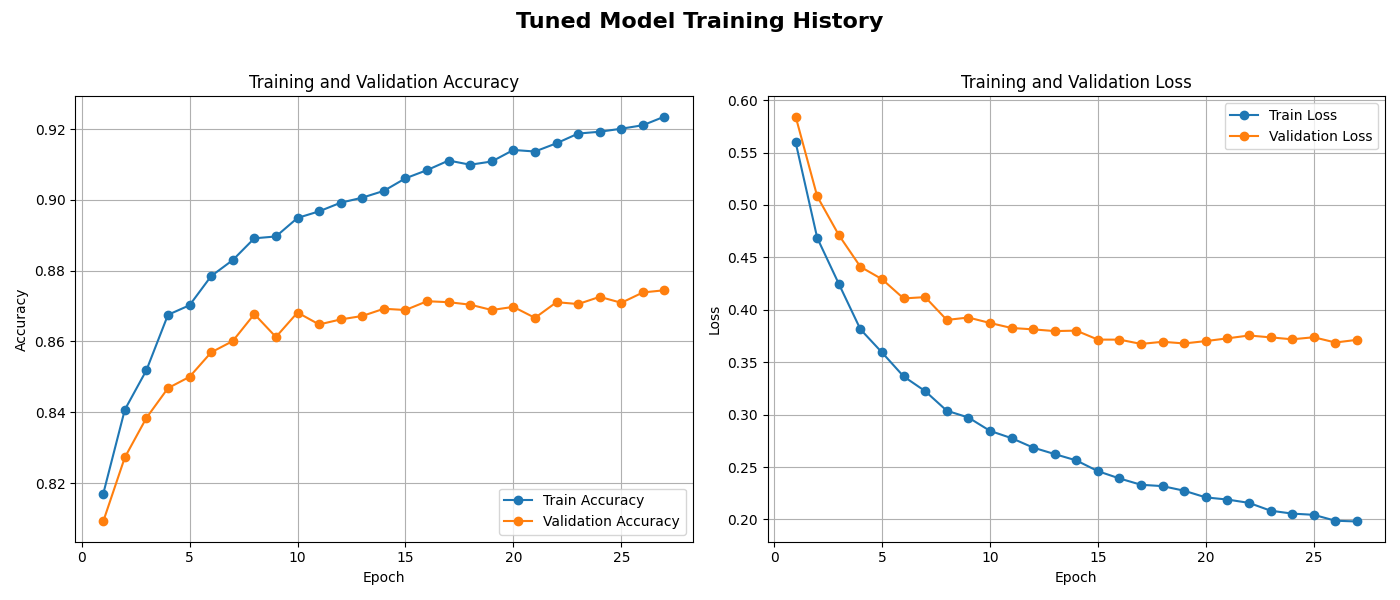
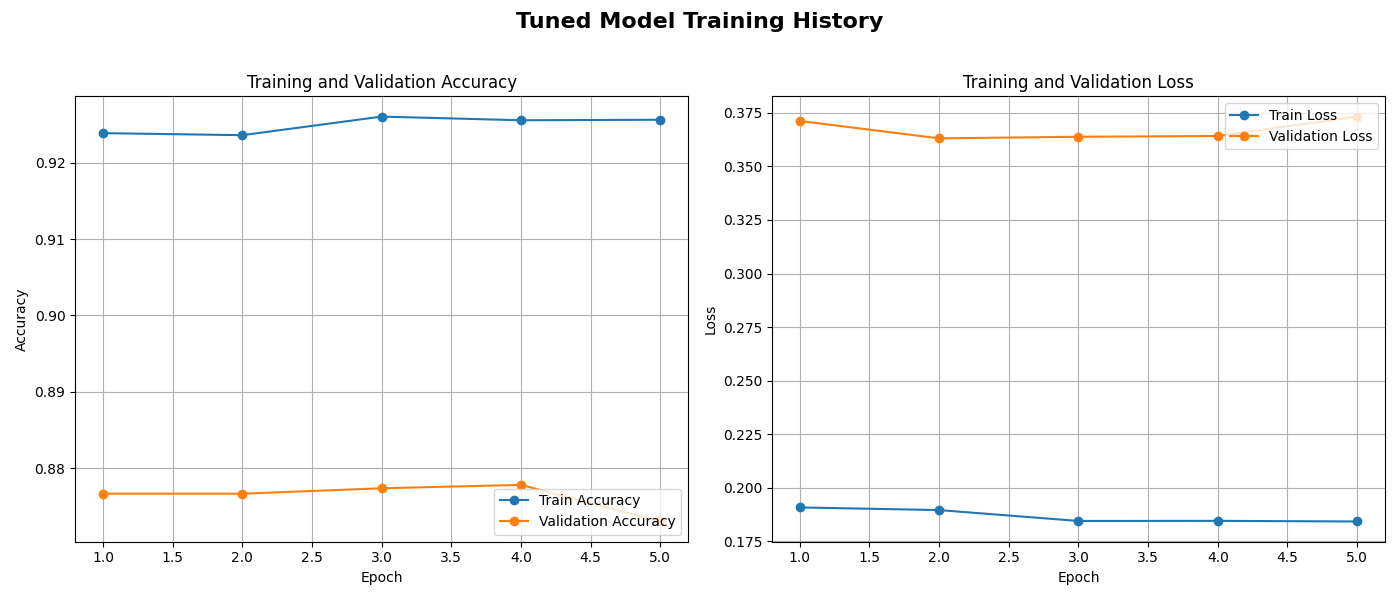
modify

diff --git a/tuning/tuning.py b/tuning/tuning.py
@@ -1,6 +1,8 @@
 import argparse
 import numpy as np
 import optuna
+import os
+import json
 from optuna.exceptions import TrialPruned
 from src.model import MLP
 from src.load_data import load_processed_data
@@ -37,6 +39,9 @@ def train(mlp, X_train, Y_train, X_val, Y_val, epochs, batch_size, patience, lr,
         if val_loss < best_val_loss:
             best_val_loss = val_loss
             val_acc_at_best_loss = val_acc
+            best_weights = {k: v.copy() for k, v in mlp.parameters.items()}
+            if mlp.use_batchnorm:
+                best_bn = {k: v.copy() for k, v in mlp.bn_params.items()}
             wait = 0
         else:
             wait += 1
@@ -48,34 +53,40 @@ def train(mlp, X_train, Y_train, X_val, Y_val, epochs, batch_size, patience, lr,
         if trial.should_prune():
             raise TrialPruned()
         
-    return val_acc_at_best_loss
+    return val_acc_at_best_loss, best_weights, best_bn
 
 def objective(trial):
     lr = trial.suggest_float('learning_rate', 1e-4, 1e-2, log=True)
-    lambd = trial.suggest_float('lambda', 1e-5, 1e-2, log=True)
-    keep_prob = trial.suggest_float('keep_prob', 0.5, 0.9)
-    n_hidden_layers = trial.suggest_int('n_hidden_layers', 1, 3)
+    lambd = trial.suggest_float('lambda', 1e-4, 1e-1, log=True)
+    keep_prob = trial.suggest_float('keep_prob', 0.3, 0.7, step=0.1)
+    n_hidden_layers = trial.suggest_int('n_hidden_layers', 1, 2)
 
     layer_dims = [784]
     for i in range(n_hidden_layers):
-        n_neurons = trial.suggest_int(f'n_units_layer_{i}', 128, 512, step=128)
+        n_neurons = trial.suggest_int(f'n_units_layer_{i}', 128, 1024, step=128)
         layer_dims.append(n_neurons)
     layer_dims.append(47)
-
-    mlp = MLP(layer_dims=layer_dims, init='he', lr=lr, lambd=lambd, 
-              keep_prob=keep_prob, use_batchnorm=True, optimizer='adam')
     
-    EPOCHS = 30
+    EPOCHS = 50
     BATCH_SIZE = 128
     PATIENCE = 5
     DECAY_RATE = 0.98
+    OPTIMIZER = 'adam'
+
+    mlp = MLP(layer_dims=layer_dims, init='he', lr=lr, lambd=lambd, 
+              keep_prob=keep_prob, use_batchnorm=True, optimizer=OPTIMIZER)
 
     try:
-        best_val_acc = train(mlp, X_train, Y_train, X_val, Y_val, 
+        best_val_acc, best_weights, best_bn = train(mlp, X_train, Y_train, X_val, Y_val, 
                              epochs=EPOCHS, batch_size=BATCH_SIZE, patience=PATIENCE, 
                              lr=lr, decay_rate=DECAY_RATE, trial=trial)
+        if best_weights:
+            best_weights = {k: v.tolist() for k, v in best_weights.items()}
+            trial.set_user_attr("best_weights", best_weights)
+        if best_bn:
+            best_bn = {k: v.tolist() for k, v in best_bn.items()}
+            trial.set_user_attr("best_bn_params", best_bn)
     except TrialPruned:
-        print(f"Trial #{trial.number} pruned.")
         raise
     except Exception as e:
         print(f"Trial #{trial.number} failed with an error: {e}")
@@ -138,7 +149,8 @@ if __name__ == "__main__":
 
         print(f"Launching {len(chunks)} workers via joblib with chunks: {chunks}")
 
-        Parallel(n_jobs=len(chunks))(delayed(_worker_run)(c, STORAGE, STUDY_NAME) for c in chunks)
+        with Parallel(n_jobs=len(chunks)) as parallel:
+            parallel(delayed(_worker_run)(c, STORAGE, STUDY_NAME) for c in chunks)
 
         study = optuna.load_study(study_name=STUDY_NAME, storage=STORAGE)
 
@@ -149,7 +161,25 @@ if __name__ == "__main__":
     
     print(f"\nBest Trial: #{best_trial.number}")
     print(f"Best Validation Accuracy: {best_trial.value:.4f}")
+
+    try:
+        best_weights = best_trial.user_attrs["best_weights"]
+        weights_to_save = {k: np.array(v) for k, v in best_weights.items()}
+        if "best_bn_params" in best_trial.user_attrs:
+            best_bn = best_trial.user_attrs["best_bn_params"]
+            bn_to_save = {k: np.array(v) for k, v in best_bn.items()}
+            weights_to_save.update(bn_to_save)
+
+        os.makedirs("models", exist_ok=True)
+        np.savez('models/mlp_weights_tuned.npz', **weights_to_save)
+        print("Best tuned weights saved to models/mlp_weights_tuned.npz")
+    except KeyError:
+        print("Could not find saved weights in the best trial.")
     
     print("\nBest hyperparameters:")
     for key, value in best_trial.params.items():
         print(f"    {key}: {value}")
+
+    with open('models/best_params.json', 'w') as f:
+        json.dump(best_trial.params, f, indent=4)
+    print("Best hyperparameters saved to models/best_params.json")

diff --git a/tuning/train_best_model.py b/tuning/train_best_model.py
@@ -5,10 +5,11 @@ import matplotlib.pyplot as plt
 from src.model import MLP
 from src.load_data import load_processed_data
 
-EPOCHS = 100
+EPOCHS = 10
 BATCH_SIZE = 128
-PATIENCE = 10
+PATIENCE = 3
 LEARNING_RATE_DECAY = 0.98
+OPTIMIZER = 'adam'
 
 def train_best_model(mlp, X_train, Y_train, X_val, Y_val, epochs, batch_size, patience, lr, decay_rate):
     m = X_train.shape[1]
@@ -137,8 +138,28 @@ if __name__ == "__main__":
         lambd=best_params['lambda'],
         keep_prob=best_params['keep_prob'],
         use_batchnorm=True,
-        optimizer='adam'
+        optimizer=OPTIMIZER
     )
+
+    try:
+        weights = np.load('models/mlp_weights_tuned.npz')
+        loaded_params = {}
+        loaded_bn_params = {}
+
+        for key in weights.keys():
+            if key.startswith('gamma') or key.startswith('beta') or key.startswith('running_'):
+                loaded_bn_params[key] = weights[key]
+            elif key.startswith('W') or key.startswith('b'):
+                loaded_params[key] = weights[key]
+        
+        final_mlp.parameters = loaded_params
+        if final_mlp.use_batchnorm:
+            final_mlp.bn_params = loaded_bn_params
+        print("Weights loaded successfully. Resuming training.")
+    except FileNotFoundError:
+        print("Warning: 'models/mlp_weights_tuned.npz' not found. Training from scratch.")
+    except Exception as e:
+        print(f"Error loading weights: {e}. Training from scratch.")
 
     history = train_best_model(
         final_mlp, X_train, Y_train, X_val, Y_val,
@@ -163,7 +184,7 @@ if __name__ == "__main__":
     to_save = dict(final_mlp.parameters)
     if final_mlp.use_batchnorm:
         to_save.update(final_mlp.bn_params)
-    np.savez('models/mlp_weights_tuned.npz', **to_save)
-    print(f"\nModel saved to models/mlp_weights_tuned.npz")
+    np.savez('models/mlp_final_weights.npz', **to_save)
+    print(f"\nModel saved to models/mlp_final_weights.npz")
 
     plot_training_history(history)

diff --git a/demo.py b/demo.py
@@ -1,5 +1,6 @@
 import cv2
 import numpy as np
+import json
 from src.model import MLP
 
 class_name = [
@@ -12,7 +13,16 @@ class_name = [
 
 def load_model():
     try:
-        layer_dims = [784, 384, 384, 47]
+        with open('models/best_params.json', 'r') as f:
+            best_params = json.load(f)
+
+        layer_dims = [784]
+        n_hidden_layers = best_params['n_hidden_layers']
+        for i in range(n_hidden_layers):
+            n_neurons = best_params[f'n_units_layer_{i}']
+            layer_dims.append(n_neurons)
+        layer_dims.append(47)
+
         mlp = MLP(layer_dims=layer_dims, init='he', use_batchnorm=True)
         weights = np.load('models/mlp_weights_tuned.npz')
         loaded_params, loaded_bn_params = {}, {}
@@ -24,6 +34,7 @@ def load_model():
         mlp.parameters, mlp.bn_params = (loaded_params, loaded_bn_params)
         print("Model loaded successfully!")
         return mlp
+    
     except Exception as e:
         print(f"Fail to load model: {str(e)}")
         return None
